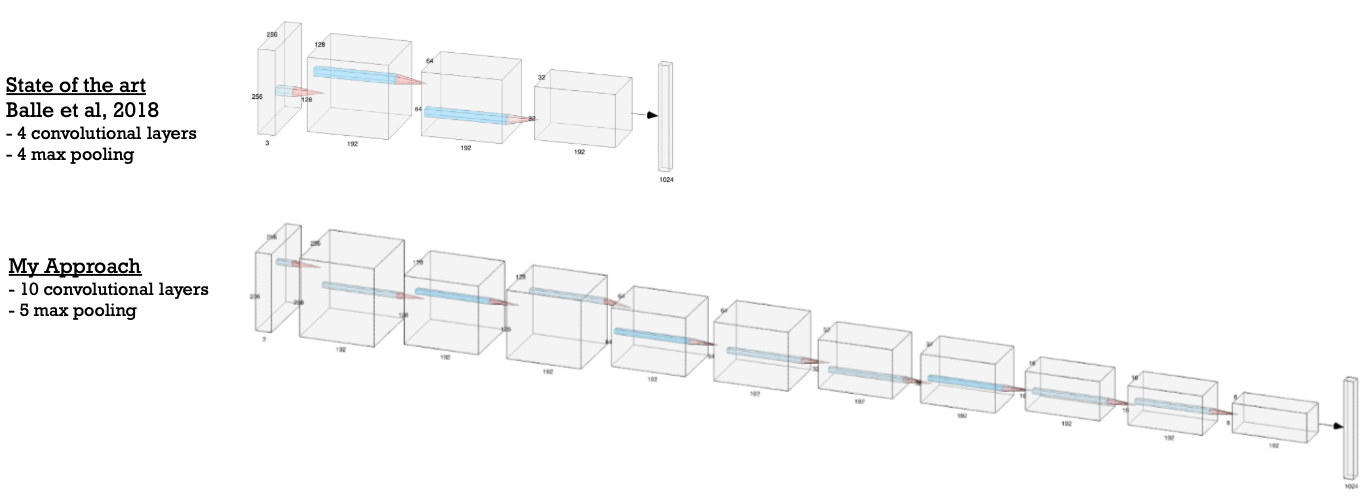
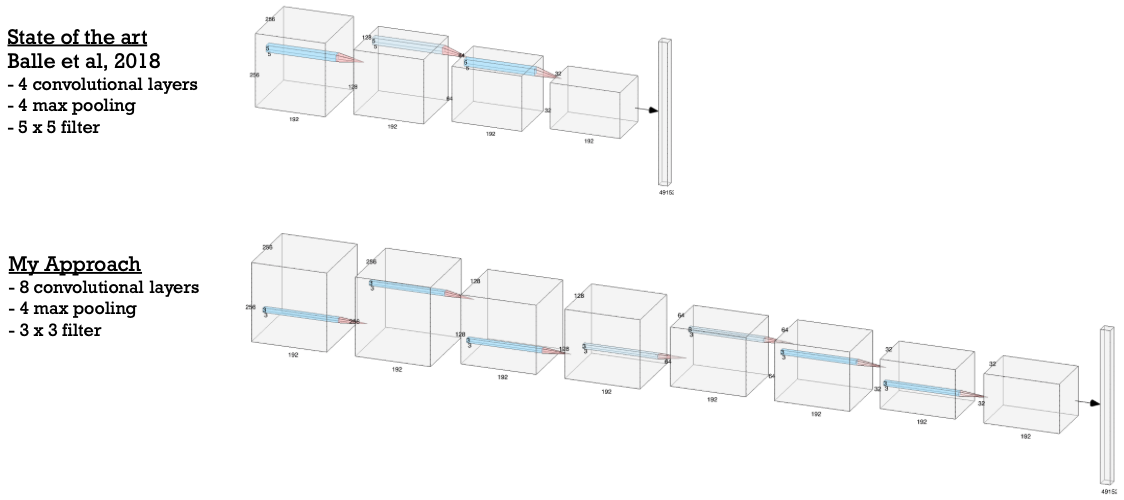
added bpp and MSE comparison graph during training

diff --git a/deep_image_compression/my_approach.py b/deep_image_compression/my_approach.py
@@ -79,45 +79,33 @@ class AnalysisTransform(tf.keras.layers.Layer):
         tfc.SignalConv2D(
             self.num_filters, (3, 3), name="layer_0", corr=True, strides_down=1,
             padding="same_zeros", use_bias=True,
-            activation=None),
+            activation=tfc.GDN(name="gdn_0")),
         tfc.SignalConv2D(
             self.num_filters, (3, 3), name="layer_1", corr=True, strides_down=2,
             padding="same_zeros", use_bias=True,
-            activation=tfc.GDN(name="gdn_0")),
+            activation=tfc.GDN(name="gdn_1")),
         tfc.SignalConv2D(
             self.num_filters, (3, 3), name="layer_2", corr=True, strides_down=1,
             padding="same_zeros", use_bias=True,
-            activation=None),
+            activation=tfc.GDN(name="gdn_2")),
         tfc.SignalConv2D(
             self.num_filters, (3, 3), name="layer_3", corr=True, strides_down=2,
             padding="same_zeros", use_bias=True,
-            activation=tfc.GDN(name="gdn_1")),
+            activation=tfc.GDN(name="gdn_3")),
         tfc.SignalConv2D(
             self.num_filters, (3, 3), name="layer_4", corr=True, strides_down=1,
             padding="same_zeros", use_bias=True,
-            activation=None),
+            activation=tfc.GDN(name="gdn_4")),
         tfc.SignalConv2D(
             self.num_filters, (3, 3), name="layer_5", corr=True, strides_down=2,
             padding="same_zeros", use_bias=True,
-            activation=tfc.GDN(name="gdn_2")),
+            activation=tfc.GDN(name="gdn_5")),
         tfc.SignalConv2D(
             self.num_filters, (3, 3), name="layer_6", corr=True, strides_down=1,
             padding="same_zeros", use_bias=True,
-            activation=None),
+            activation=tfc.GDN(name="gdn_6")),
         tfc.SignalConv2D(
             self.num_filters, (3, 3), name="layer_7", corr=True, strides_down=2,
-            padding="same_zeros", use_bias=True,
-            activation=tfc.GDN(name="gdn_3")),
-        tfc.SignalConv2D(
-            self.num_filters, (3, 3), name="layer_8", corr=True, strides_down=1,
-            padding="same_zeros", use_bias=True,
-            activation=None),
-        tfc.SignalConv2D(
-            self.num_filters, (3, 3), name="layer_9", corr=True, strides_down=2,
-            padding="same_zeros", use_bias=True,
-            activation=tfc.GDN(name="gdn_4")),
-        tfc.SignalConv2D(
-            self.num_filters, (3, 3), name="layer_10", corr=True, strides_down=1,
             padding="same_zeros", use_bias=True,
             activation=None),
     ]
@@ -141,45 +129,33 @@ class SynthesisTransform(tf.keras.layers.Layer):
         tfc.SignalConv2D(
             self.num_filters, (3, 3), name="layer_0", corr=False, strides_up=1,
             padding="same_zeros", use_bias=True,
-            activation=None),
+            activation=tfc.GDN(name="igdn_0", inverse=True)),
         tfc.SignalConv2D(
             self.num_filters, (3, 3), name="layer_1", corr=False, strides_up=2,
             padding="same_zeros", use_bias=True,
-            activation=tfc.GDN(name="igdn_0", inverse=True)),
+            activation=tfc.GDN(name="igdn_1", inverse=True)),
         tfc.SignalConv2D(
             self.num_filters, (3, 3), name="layer_2", corr=False, strides_up=1,
             padding="same_zeros", use_bias=True,
-            activation=None),
+            activation=tfc.GDN(name="igdn_2", inverse=True)),
         tfc.SignalConv2D(
             self.num_filters, (3, 3), name="layer_3", corr=False, strides_up=2,
             padding="same_zeros", use_bias=True,
-            activation=tfc.GDN(name="igdn_1", inverse=True)),
+            activation=tfc.GDN(name="igdn_3", inverse=True)),
         tfc.SignalConv2D(
             self.num_filters, (3, 3), name="layer_4", corr=False, strides_up=1,
             padding="same_zeros", use_bias=True,
-            activation=None),
+            activation=tfc.GDN(name="igdn_4", inverse=True)),
         tfc.SignalConv2D(
             self.num_filters, (3, 3), name="layer_5", corr=False, strides_up=2,
             padding="same_zeros", use_bias=True,
-            activation=tfc.GDN(name="igdn_2", inverse=True)),
+            activation=tfc.GDN(name="igdn_5", inverse=True)),
         tfc.SignalConv2D(
             self.num_filters, (3, 3), name="layer_6", corr=False, strides_up=1,
             padding="same_zeros", use_bias=True,
-            activation=None),
+            activation=tfc.GDN(name="igdn_6", inverse=True)),
         tfc.SignalConv2D(
-            self.num_filters, (3, 3), name="layer_7", corr=False, strides_up=2,
-            padding="same_zeros", use_bias=True,
-            activation=tfc.GDN(name="igdn_3", inverse=True)),
-        tfc.SignalConv2D(
-            self.num_filters, (3, 3), name="layer_8", corr=False, strides_up=1,
-            padding="same_zeros", use_bias=True,
-            activation=None),
-        tfc.SignalConv2D(
-            self.num_filters, (3, 3), name="layer_9", corr=False, strides_up=2,
-            padding="same_zeros", use_bias=True,
-            activation=tfc.GDN(name="igdn_4", inverse=True)),
-        tfc.SignalConv2D(
-            3, (3, 3), name="layer_10", corr=False, strides_up=1,
+            3, (3, 3), name="layer_7", corr=False, strides_up=2,
             padding="same_zeros", use_bias=True,
             activation=None),
     ]

diff --git a/setup.py b/setup.py
@@ -2,7 +2,7 @@ import os
 from distutils.core import setup
 
 install_requires = [
-    'tensorflow-gpu==1.15.0-rc1',
+    'tensorflow-gpu==1.14.0',
     'absl-py==0.8.0',
     'opencv-python==4.1.1.26',
     'argparse==1.4.0',
@@ -25,7 +25,7 @@ extras_require = {
 setup_requires = ['pytest-runner>=2.6.2', ]
 
 setup(
-    name='deep_image_compression',         # How you named your package folder (MyLib)
+    name='deep-image-compression',         # How you named your package folder (MyLib)
     packages=['deep_image_compression'],   # Chose the same as "name"
     version='0.2',      # Start with a small number and increase it with every change you make
     # Chose a license from here: https://help.github.com/articles/licensing-a-repository

diff --git a/README.md b/README.md
@@ -2,7 +2,7 @@
 ## [Package](https://pypi.org/project/deep-image-compression/)
 
 # Deep Image Compression: Extreme Image Compression Using Deep Learning
-![image of pipline](https://github.com/LichengXiao2017/deep-image-compression/blob/master/deep-image-compression/static/img/pipeline.png)
+![image of pipline](https://github.com/LichengXiao2017/deep-image-compression/blob/master/deep_image_compression/static/img/pipeline.png)
 
 Deep Image Compression is an end-to-end tool for extreme image compression
 using deep learning. It outperforms JEPG, HEIC(state-of-the-art traditional
@@ -18,7 +18,7 @@ September, 2019.
 In my approach, I changed the training dataset, and modified the model
 structure, as is shown in the following figure.
 
-![image of model structure modification](https://github.com/LichengXiao2017/deep-image-compression/blob/master/deep-image-compression/static/img/model_improvement.png)
+![image of model structure modification](https://github.com/LichengXiao2017/deep-image-compression/blob/master/deep_image_compression/static/img/model_improvement.png)
 
 ## The directory structure of this repo is the following:
 - **deep-image-compression** : contains all the source code
@@ -119,7 +119,7 @@ Here are a list of scripts and variables that need configuration before running:
       - ORIGINAL_IMAGE_FOLDER_PATH
       - COMPRESSED_IMAGE_FOLDER_PATH
       - RECONSTRUCTED_IMAGE_FOLDER_PATH
-      
+
 In the future, these configurations will be combined into single config file
 under configs/
 
@@ -191,8 +191,14 @@ bin/model_analysis_batch_images
 
 #### Final result:
 
+The following graphs show that my approach achieved lower bpp(bit per pixel) with
+similar MSE(mean square error) during training.
+![image of MSE comparison](https://github.com/LichengXiao2017/deep-image-compression/blob/master/deep_image_compression/static/img/MSE_comparison.png)
+
+![image of bpp comparison](https://github.com/LichengXiao2017/deep-image-compression/blob/master/deep_image_compression/static/img/bpp_comparison.png)
+
 Note:
 1. The metrics in the table is averaged on 24 images from Kodak dataset
 2. The encoding and decoding time can be greatly reduced by pre-loading the model
 
-![image of results](https://github.com/LichengXiao2017/deep-image-compression/blob/master/deep-image-compression/static/img/result_table.png)
+![image of results](https://github.com/LichengXiao2017/deep-image-compression/blob/master/deep_image_compression/static/img/result_table.png)
